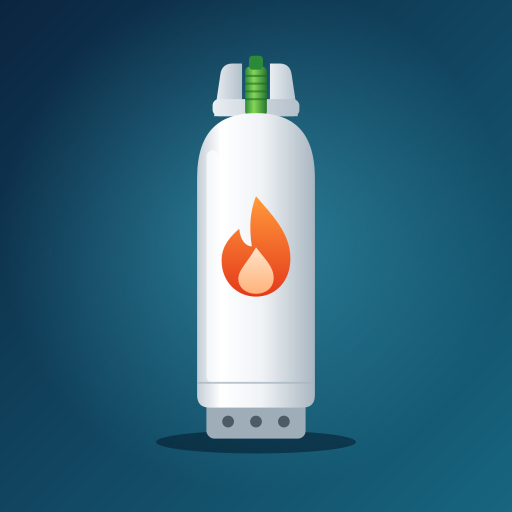
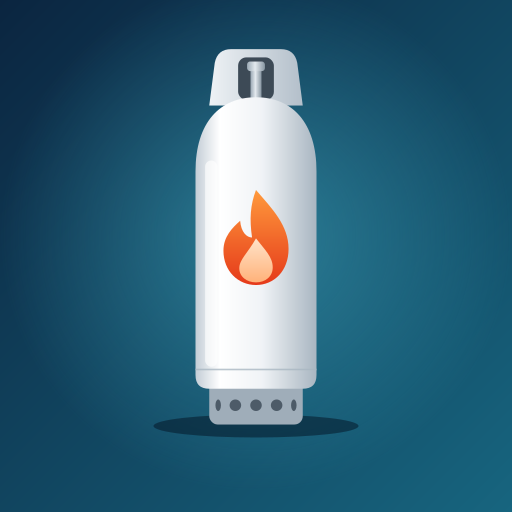
Ajusta la silueta del balón y quita el sello verde
El icono y las figuras de la app toman proporciones más fieles al balón de
45 kg de referencia: cuerpo más ancho, protector superior con ventana y base
con orificios. La válvula pasa a gris metálico y se elimina el sello verde.

Claude-Session: https://claude.ai/code/session_01EhwefyhFDAxEZfG53dcKNG

diff --git a/index.html b/index.html
@@ -30,7 +30,6 @@
   --line: #d8dee5;
   --track: #e2e8ee;
   --accent: #c2410c;
-  --valve: #2f8f3a;
   --accent-bg: #fdebe0;
   --on-accent: #ffffff;
   --over: #b42318;
@@ -52,7 +51,6 @@
     --line: #2a3541;
     --track: #26313c;
     --accent: #ff9158;
-  --valve: #5fcf6b;
     --accent-bg: #3a2619;
     --on-accent: #1d0d02;
     --over: #ff9b92;
@@ -69,7 +67,6 @@
   --line: #2a3541;
   --track: #26313c;
   --accent: #ff9158;
-  --valve: #5fcf6b;
   --accent-bg: #3a2619;
   --on-accent: #1d0d02;
   --over: #ff9b92;
@@ -139,7 +136,7 @@ svg { display: block; }
 /* Balones: en uso y de reserva */
 .fleet { display: flex; justify-content: center; gap: 20px; padding: 4px 0 2px; }
 .unit { display: flex; flex-direction: column; align-items: center; gap: 8px; min-width: 0; flex: 1 1 0; max-width: 150px; }
-.unit svg { width: 62px; max-width: 100%; height: auto; }
+.unit svg { width: 58px; max-width: 100%; height: auto; }
 .cap { text-align: center; line-height: 1.25; }
 .cap b { display: block; font-size: 15px; font-weight: 600; }
 .cap span { display: block; font-size: 13px; color: var(--muted); }
@@ -150,7 +147,7 @@ svg { display: block; }
 .t-base { fill: var(--muted); opacity: 0.55; }
 .t-hole { fill: var(--surface); }
 .t-guard { fill: var(--muted); opacity: 0.55; }
-.t-valve { fill: var(--valve); }
+.t-valve { fill: var(--muted); opacity: 0.85; }
 .row.is-reserve .dur b { color: var(--muted); }
 
 /* Resumen */
@@ -370,20 +367,19 @@ svg { display: block; }
     return '<header class="top"><span class="mark">' + I_FLAME + '</span><div><div class="eyebrow">Gas licuado</div><h1>Balón de gas</h1></div></header>';
   }
 
-  // Balón de 45 kg (viewBox 100 x 260): protector, válvula verde, cuerpo alto y base con orificios
-  var BODY = 'M12 84C12 52 28 42 50 42C72 42 88 52 88 84V224Q88 232 80 232H20Q12 232 12 224Z';
+  // Balón de 45 kg (viewBox 100 x 280): protector con ventana, válvula, cuerpo alto y base con orificios
+  var BODY = 'M6 92C6 56 24 38 50 38C76 38 94 56 94 92V240Q94 250 84 250H16Q6 250 6 240Z';
   // Figura de un balón; `frac` es la parte que sigue llena (0 a 1)
   function tankSvg(frac, uid, label) {
     frac = Math.max(0, Math.min(1, frac));
-    var hh = 190 * frac, y = 232 - hh;
-    return '<svg viewBox="0 0 100 260" role="img" aria-label="' + label + '">' +
+    var hh = 212 * frac, y = 250 - hh;
+    return '<svg viewBox="0 0 100 280" role="img" aria-label="' + label + '">' +
       '<defs><clipPath id="cp-' + uid + '"><path d="' + BODY + '"/></clipPath></defs>' +
-      '<rect class="t-base" x="18" y="226" width="64" height="26" rx="5"/>' +
-      '<g class="t-hole"><circle cx="32" cy="241" r="3.8"/><circle cx="50" cy="241" r="3.8"/><circle cx="68" cy="241" r="3.8"/></g>' +
-      '<path class="t-guard" d="M23 44L27 17Q28 10 35 10H41V44ZM77 44L73 17Q72 10 65 10H59V44Z"/>' +
-      '<rect class="t-guard" x="22" y="33" width="56" height="11" rx="4"/>' +
-      '<rect class="t-valve" x="43" y="12" width="14" height="32" rx="3"/>' +
-      '<rect class="t-valve" x="45.5" y="5" width="9" height="9" rx="2.2"/>' +
+      '<rect class="t-base" x="16" y="244" width="68" height="32" rx="6"/>' +
+      '<g class="t-hole"><circle cx="35" cy="262" r="4.2"/><circle cx="50" cy="262" r="4.2"/><circle cx="65" cy="262" r="4.2"/><ellipse cx="22.5" cy="262" rx="2" ry="4.2"/><ellipse cx="77.5" cy="262" rx="2" ry="4.2"/></g>' +
+      '<path class="t-guard" fill-rule="evenodd" d="M16 44L20 13Q22 3 32 3H68Q78 3 80 13L84 44ZM43 9H57Q63 9 63 15V34Q63 40 57 40H43Q37 40 37 34V15Q37 9 43 9Z"/>' +
+      '<rect class="t-valve" x="46" y="17" width="8" height="25" rx="2"/>' +
+      '<rect class="t-valve" x="43.5" y="12" width="13" height="7" rx="2.2"/>' +
       '<path class="t-shell" d="' + BODY + '"/>' +
       (frac > 0 ? '<rect class="t-fill" x="0" y="' + y.toFixed(1) + '" width="100" height="' + hh.toFixed(1) + '" clip-path="url(#cp-' + uid + ')"/>' : '') +
       '<path class="t-outline' + (frac === 0 ? ' is-empty' : '') + '" d="' + BODY + '"/></svg>';

diff --git a/sw.js b/sw.js
@@ -1,5 +1,5 @@
 // Service worker mínimo: deja la app disponible sin conexión.
-const CACHE = 'balon-gas-v3';
+const CACHE = 'balon-gas-v4';
 const ASSETS = [
   './',
   'index.html',

diff --git a/README.md b/README.md
@@ -6,7 +6,7 @@ App personal para llevar el control de los balones de gas licuado: registra cuá
 
 - **Abrir nuevo balón**: indica la fecha de apertura (por defecto hoy). Si había uno en uso, se cierra en esa misma fecha.
 - **Registrar compra**: guarda un balón comprado que aún no se abre (reserva). Al usar "Abrir balón de reserva", ese balón pasa a estar en uso y el actual se cierra en la misma fecha.
-- **Dos balones de 45 kg**: la tarjeta principal dibuja el balón en uso (cilindro blanco alto con válvula verde), coloreado según lo que queda (estimado con tu promedio de días), y el de reserva, lleno si está comprado y sin abrir o vacío si no hay reserva.
+- **Dos balones de 45 kg**: la tarjeta principal dibuja el balón en uso (cilindro blanco alto con protector y base con orificios), coloreado según lo que queda (estimado con tu promedio de días), y el de reserva, lleno si está comprado y sin abrir o vacío si no hay reserva.
 - **Días de uso**: muestra cuántos días lleva el balón actual, el porcentaje consumido y la fecha estimada de cambio.
 - **Historial**: lista de todos los balones con fechas, días de uso, tamaño y precio (opcionales). Cada registro se puede editar o eliminar.
 - **Registros anteriores**: botón para ingresar a mano balones que ya usaste, con sus fechas de apertura y cierre.
